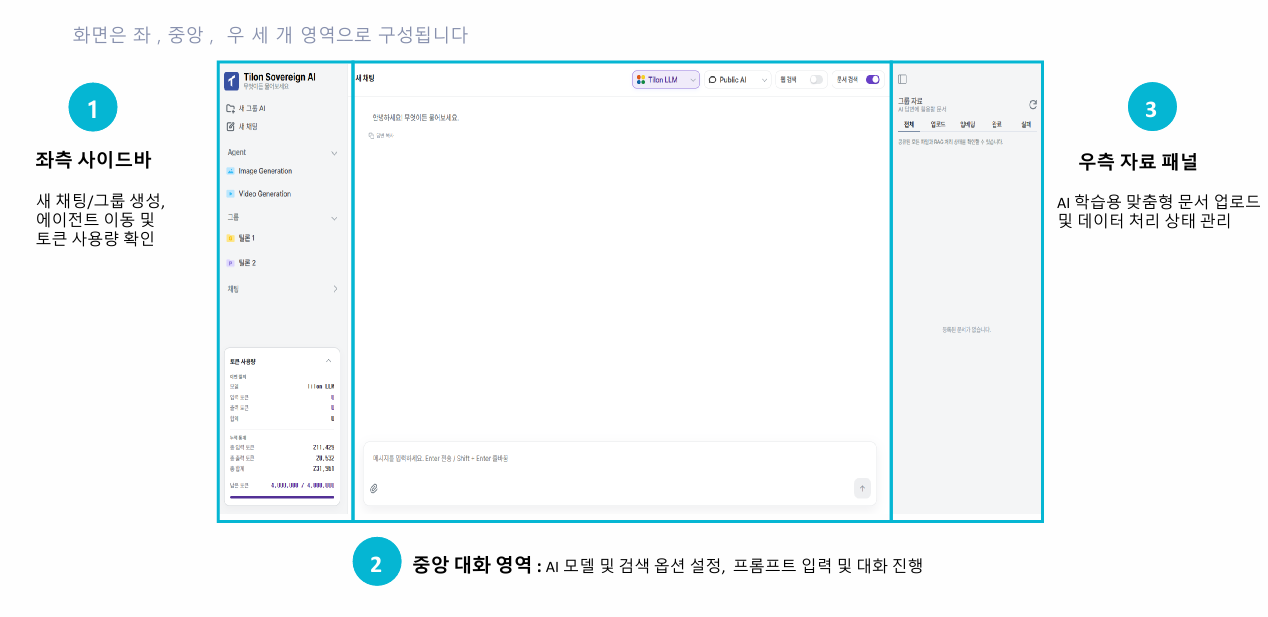
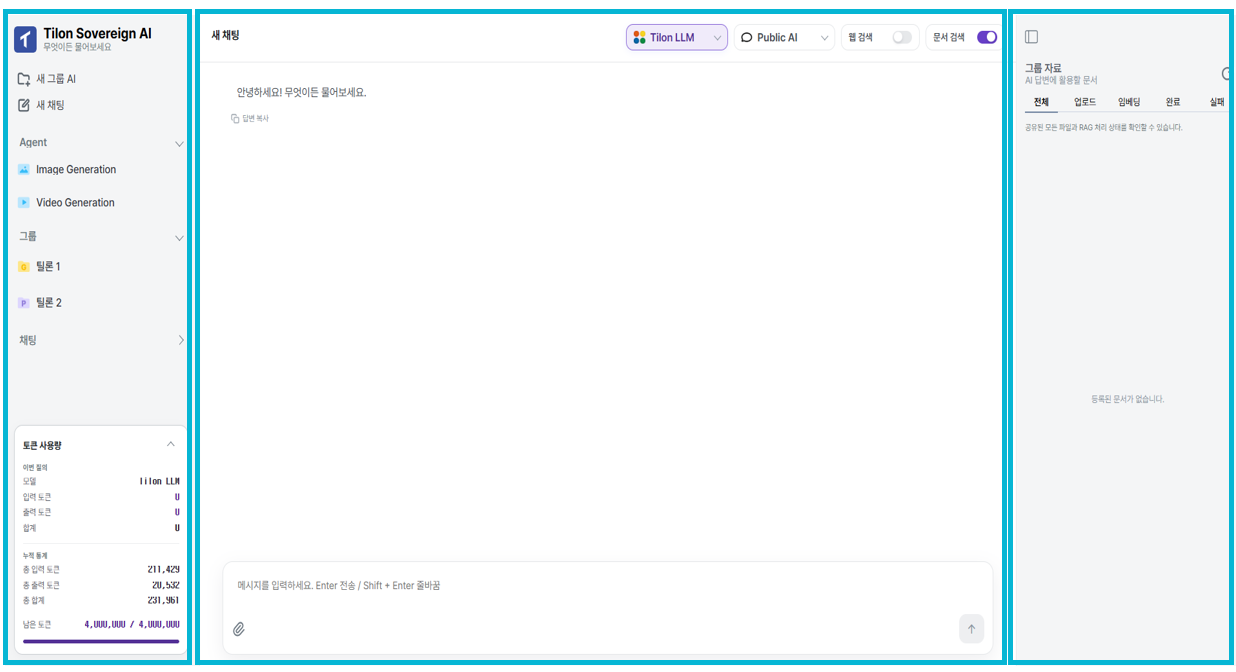
Add intro and login guide images

Changed region(s): [[0.0, 0.0, 1.0, 1.0], [0.8916, 0.5851, 0.9531, 0.6159], [0.7379, 0.5235, 0.7686, 0.5543]]

diff --git a/index.html b/index.html
@@ -1,4 +1,4 @@
-<!doctype html>
+<!doctype html>
 <html lang="ko">
   <head>
     <meta charset="UTF-8" />
@@ -19,7 +19,6 @@
         <div class="sidebar-head">
           <div class="sidebar-title">
             <strong>사용자 매뉴얼</strong>
-            <span>큰 흐름대로 따라가기</span>
           </div>
           <button class="sidebar-toggle" id="sidebarToggle" type="button" aria-controls="sidebar" aria-expanded="true" aria-label="목차 접기">
             <span aria-hidden="true">≡</span>
@@ -100,9 +99,12 @@
             <span class="hero-title">iStation</span>
           </h1>
           <p>
-            iStation은 조직 데이터의 외부 유출을 차단하면서 내부 AI 사용 환경을 제공하는
-            Sovereign AI 기반 On-premise 통합 AI 플랫폼입니다. 이 페이지는 주요 기능을
-            처음 사용하는 순서대로 빠르게 확인할 수 있도록 정리했습니다.
+           iStation 사용자 매뉴얼은 서비스 화면 구성부터 AI 대화, 자료 관리, 특화 에이전트 활용까지 실제 업무 흐름에 따
+           라 단계별로 안내합니다. 처음 접속하는 사용자도 본 매뉴얼을 순서대로 따라가면 iStation의 주요 기능을 무리 
+           없이 활용할 수 있습니다. 
+           화면 캡처와 단계별 설명을 함께 제공하여 실제 조작 화면을 보며 따라 하기 
+           쉽도록 구성했습니다. iStation의 기능은 지속적으로 업데이트되므로, 매뉴얼 또한 변경 사항이 발생할 때마다 함
+           께 개정됩니다.
           </p>
         </div>
       </section>
@@ -148,6 +150,7 @@
 
         <article class="guide-block" id="intro-guide">
           <div class="guide-copy">
+            <p class="step">01</p>
             <h3>iStation 소개</h3>
             <p>iStation은 다양한 LLM을 사내 환경에서 안전하게 활용할 수 있도록 설계된 업무용 AI 플랫폼입니다.</p>
             <ol>
@@ -156,13 +159,12 @@
               <li><strong>맞춤형 지식 활용</strong> 사내 문서를 업로드하고 RAG 검색을 켜면 내부 자료 기반의 업무 답변을 받을 수 있습니다.</li>
             </ol>
           </div>
-          <figure class="image-placeholder" aria-label="iStation 소개 이미지 자리">
-            <span>이미지 준비 중</span>
-          </figure>
+          <figure><img src="assets/iStation 소개.png" alt="iStation 소개 화면" /></figure>
         </article>
 
         <article class="guide-block" id="environment">
           <div class="guide-copy">
+            <p class="step">02</p>
             <h3>권장 환경과 로그인</h3>
             <p>원활한 사용을 위해 지원 브라우저와 사내 접속 환경을 먼저 확인합니다.</p>
             <ol>
@@ -172,13 +174,12 @@
               <li><strong>최초 로그인</strong> TOT 인증을 거쳐 로그인한 뒤 최초 접속 시 필요한 계정 설정을 완료합니다.</li>
             </ol>
           </div>
-          <figure class="image-placeholder" aria-label="로그인 화면 이미지 자리">
-            <span>이미지 준비 중</span>
-          </figure>
+          <figure><img src="assets/권장 환경과 로그인.png" alt="권장 환경과 로그인 화면" /></figure>
         </article>
 
         <article class="guide-block" id="layout">
           <div class="guide-copy">
+            <p class="step">03</p>
             <h3>화면 기본 구성</h3>
             <p>iStation 화면은 좌측 사이드바, 중앙 대화 영역, 우측 자료 패널로 구성됩니다.</p>
             <ol>
@@ -192,6 +193,7 @@
 
         <article class="guide-block" id="tokens">
           <div class="guide-copy">
+            <p class="step">04</p>
             <h3>토큰 사용량 확인</h3>
             <p>좌측 하단의 토큰 패널에서 현재 질문과 답변에 사용된 토큰, 누적 토큰, 남은 토큰을 확인합니다.</p>
             <ol>
@@ -216,6 +218,7 @@
 
         <article class="guide-block" id="group-ai">
           <div class="guide-copy">
+            <p class="step">05</p>
             <h3>새 그룹 AI 만들기</h3>
             <p>그룹은 관련 자료와 대화를 하나로 묶어 관리하는 단위입니다.</p>
             <ol>
@@ -232,6 +235,7 @@
 
         <article class="guide-block" id="new-chat">
           <div class="guide-copy">
+            <p class="step">06</p>
             <h3>새 채팅 시작하기</h3>
             <p>주제가 바뀌면 새 채팅을 만들어 이전 맥락과 섞이지 않게 대화합니다.</p>
             <ol>
@@ -245,6 +249,7 @@
 
         <article class="guide-block" id="models">
           <div class="guide-copy">
+            <p class="step">07</p>
             <h3>LLM 모델 선택</h3>
             <p>대화 화면 상단의 두 드롭다운에서 모델 유형과 세부 모델을 선택합니다.</p>
             <ol>
@@ -260,6 +265,7 @@
 
         <article class="guide-block" id="search-options">
           <div class="guide-copy">
+            <p class="step">08</p>
             <h3>웹 검색과 문서 검색 설정</h3>
             <p>상단 우측의 토글로 답변이 참고할 정보 범위를 선택합니다.</p>
             <ol>
@@ -274,6 +280,7 @@
 
         <article class="guide-block" id="message">
           <div class="guide-copy">
+            <p class="step">09</p>
             <h3>메시지 작성 및 전송</h3>
             <p>화면 하단 입력창에 질문이나 요청사항을 작성한 뒤 전송합니다.</p>
             <ol>
@@ -287,6 +294,7 @@
 
         <article class="guide-block" id="attach">
           <div class="guide-copy">
+            <p class="step">10</p>
             <h3>파일 첨부하기</h3>
             <p>대화 중 참고할 문서나 이미지를 일회성으로 바로 첨부해 분석을 요청할 수 있습니다.</p>
             <ol>
@@ -301,6 +309,7 @@
 
         <article class="guide-block" id="prompt-guide">
           <div class="guide-copy">
+            <p class="step">11</p>
             <h3>효과적인 프롬프트 작성</h3>
             <p>질문의 목적과 형식을 구체적으로 전달할수록 바로 활용하기 좋은 답변을 받을 수 있습니다.</p>
             <ol>
@@ -329,6 +338,7 @@
 
         <article class="guide-block" id="upload">
           <div class="guide-copy">
+            <p class="step">12</p>
             <h3>문서 업로드</h3>
             <p>우측 그룹 자료 패널에서 AI 답변에 사용할 문서를 등록합니다.</p>
             <ol>
@@ -339,11 +349,12 @@
               <li>업로드한 자료를 답변에 활용하려면 대화 상단의 <strong>문서 검색</strong> 토글을 켭니다.</li>
             </ol>
           </div>
-          <figure><img src="assets/문서업로드.png" alt="문서 업로드 화면" /></figure>
+          <figure><img src="assets/문서 업로드1.png" alt="문서 업로드 화면" /></figure>
         </article>
 
         <article class="guide-block" id="embedding">
           <div class="guide-copy">
+            <p class="step">13</p>
             <h3>학습 상태 확인</h3>
             <p>문서가 AI가 검색할 수 있는 형태로 처리되고 있는지 상태를 확인합니다.</p>
             <ol>
@@ -370,6 +381,7 @@
 
         <article class="guide-block" id="image-agent">
           <div class="guide-copy">
+            <p class="step">14</p>
             <h3>이미지 생성하기</h3>
             <p>좌측 Agent 메뉴에서 텍스트 설명만으로 이미지를 생성합니다.</p>
             <ol>
@@ -385,6 +397,7 @@
 
         <article class="guide-block" id="video-agent">
           <div class="guide-copy">
+            <p class="step">15</p>
             <h3>비디오 생성하기</h3>
             <p>비디오 생성 화면에서 모델과 보기 방식을 선택한 뒤 원하는 영상 프롬프트를 전송합니다.</p>
             <ol>
@@ -401,6 +414,7 @@
 
         <article class="guide-block" id="document-agent">
           <div class="guide-copy">
+            <p class="step">16</p>
             <h3>문서 작성하기</h3>
             <p>보고서, 기획서, 회의록, 이메일 등 업무 문서의 초안을 자동으로 생성하는 Agent입니다.</p>
             <ol>
@@ -429,6 +443,7 @@
 
         <article class="guide-block" id="security">
           <div class="guide-copy">
+            <p class="step">17</p>
             <h3>데이터 보안과 프라이버시</h3>
             <p>업무 자료와 대화 내용을 안전하게 다루기 위해 기본 보안 원칙을 확인합니다.</p>
             <ol>
@@ -443,6 +458,7 @@
 
         <article class="guide-block" id="donts">
           <div class="guide-copy">
+            <p class="step">18</p>
             <h3>AI 입력 금지 사항</h3>
             <p>Public AI 사용 시에는 외부로 전달되면 안 되는 정보를 입력하지 않습니다.</p>
             <ol>
@@ -515,4 +531,3 @@
     <script src="script.js"></script>
   </body>
 </html>
-
